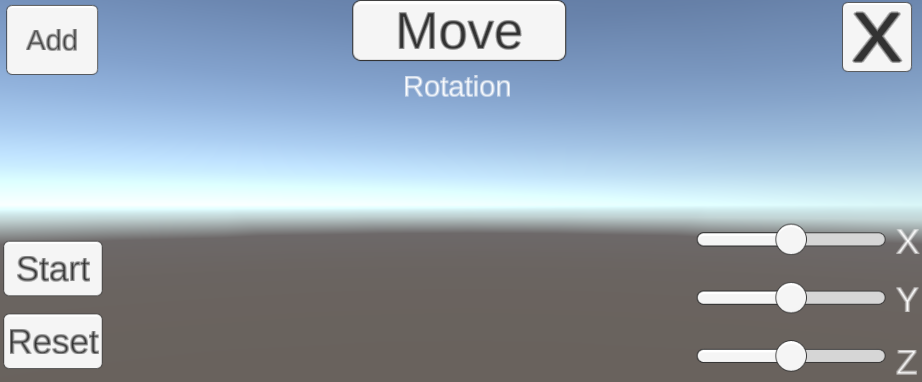
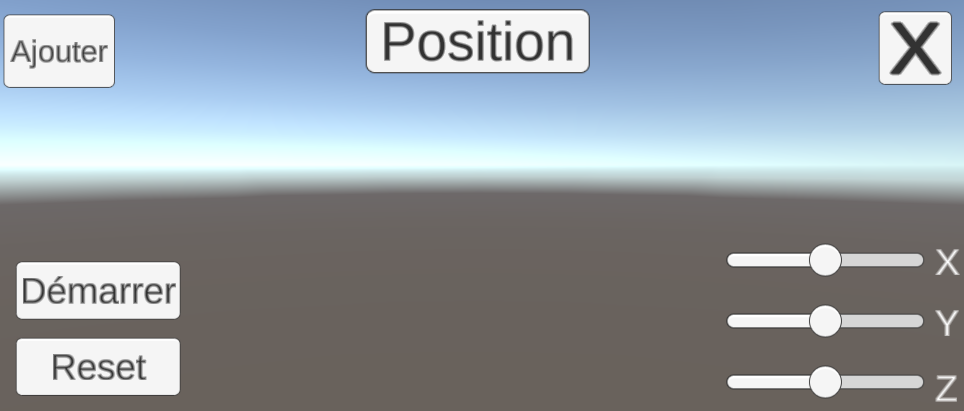
Update readme.

diff --git a/README.md b/README.md
@@ -1,16 +1,18 @@
-# Concept initial :
+# TIA - Projet Réalité Augmentée
+
+## Concept initial :
 - Faire une machine de rube goldberg
 - Pouvoir positionner et rotater des pièces pour compléter la machine
 
-# Application développée :
+## Application développée :
 - Machine de rube goldberg
     - Un parcours autour d'une tour + animation de fin (petit feux d'artifices)
     - 4 objets à placer (angle, 2 planche, plaque bondissante), chacun a son image target, règlage de la position et rotation
     - Convoyeur activable par le passage la balle du joueur
     - Des plateformes rebondissantes
-    - Interface de démarrage/remise à zéro, de placement d'objet, de fin de partie (temps de jeu, nombre d'objets utilisé)
+    - Interface de démarrage/remise à zéro, de placement d'objet, de fin de partie (nombre de remise à zéro, temps de jeu, nombre d'objets utilisés)
 
-# Manuel utilisateur :
+## Manuel utilisateur :
 Objectif du jeu :
 - Compléter le parcours afin de permettre à la balle rouge d'atteindre l'intérieur de la tour centrale.
 - Deux modes de jeu disponibles :
@@ -18,7 +20,7 @@ Objectif du jeu :
     - Difficile : les emplacements des objets à placer ne sont pas indiqués
 
 Aides :
-- Bouton ``Start`` pour démarrer la partie
+- Bouton ``Démarrer`` pour démarrer la partie
 - Bouton ``Reset`` pour recommencer la partie
 ![ImagesReadMe/StartResetMenu.png](ImagesReadMe/StartResetMenu.png)
 - Pour poser un objet :
@@ -28,9 +30,10 @@ Aides :
         - ``Drone`` : Coin/Angle
     ![ImagesReadMe/ImagesTarget.png](ImagesReadMe/ImagesTarget.png)
     - Sélectionner l'objet virtuel visible sur l'image target
-    - Sélectionner le mode de placement avec le bouton central en haut: ``Rotate`` (rotater), ``Move`` (positionner). Le mode en cours est indiqué en dessous du bouton
+    - Sélectionner le mode de placement avec le bouton central en haut: ``Roration``, ``Position``. Le mode en cours est indiqué en dessous du bouton
     ![ImagesReadMe/EditMenuRotate.png](ImagesReadMe/EditMenuRotate.png)
     ![ImagesReadMe/EditMenuMove.png](ImagesReadMe/EditMenuMove.png)
-    - Modifier la position ou rotation sur les 3 axes à l'aide des 3 glissières en bas à droite
-    - Appuyer sur ``Add``, en haut à gauche, pour fixer l'objet à son emplacement actuel
+    - Modifier la position ou rotation sur les 3 axes (x, y, z) à l'aide des 3 glissières en bas à droite
+    - Appuyer sur ``Ajouter``, en haut à gauche, pour fixer l'objet à son emplacement actuel
     - Appuyer sur la croix, en haut à droite, pour annuler la sélection de l'objet
+- 
